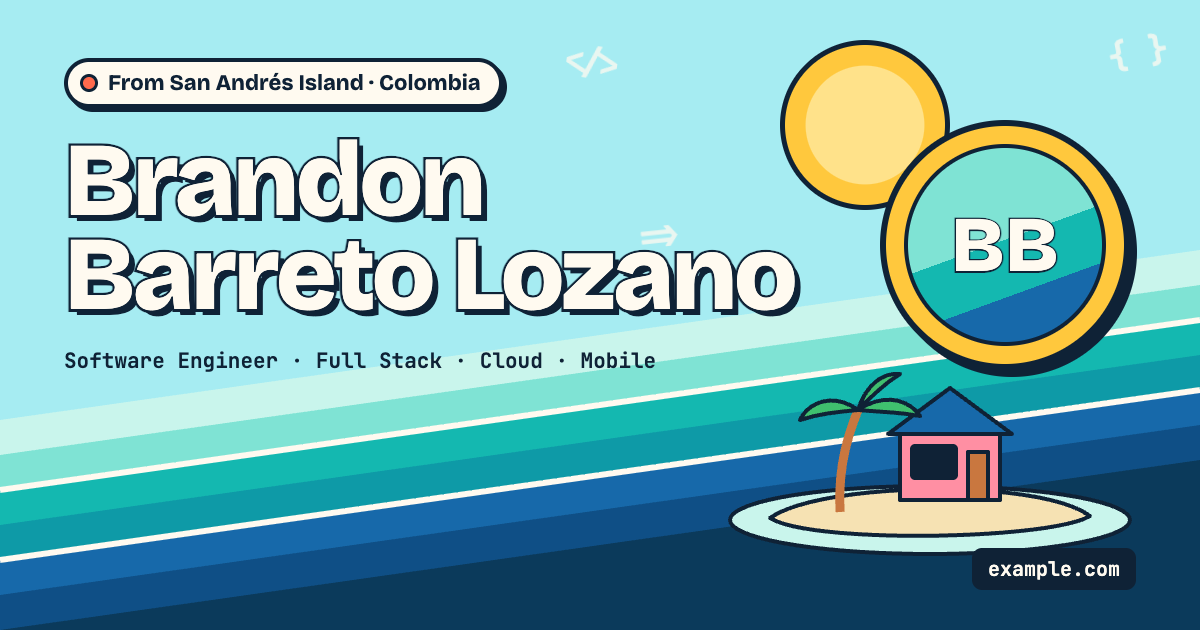
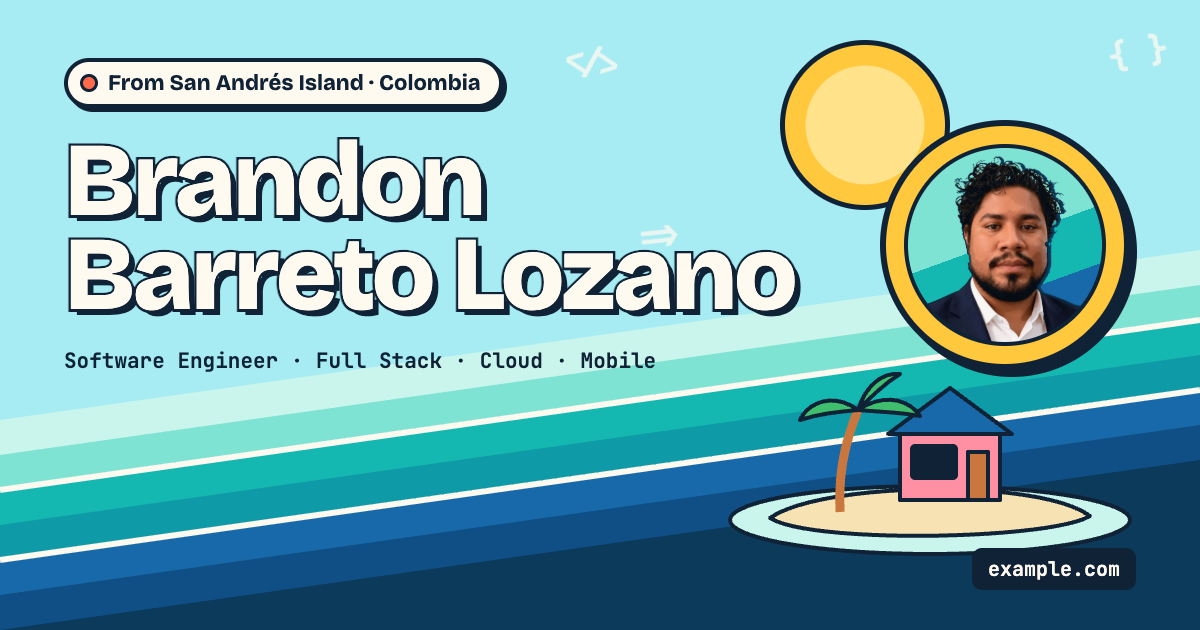
v1.0.1

Changed region(s): [[0.7708, 0.2413, 0.8942, 0.5429]]

diff --git a/scripts/og-template.html b/scripts/og-template.html
@@ -52,7 +52,7 @@
       }
       .porthole div {
         width: 100%; height: 100%; border-radius: 50%; border: 4px solid var(--ink); display: grid; place-items: center;
-        background: linear-gradient(160deg, #7fe3d4 0 48%, #14b8b0 48% 70%, #1769aa 70%);
+        background: url('../public/images/brandon.webp') center / cover, linear-gradient(160deg, #7fe3d4 0 48%, #14b8b0 48% 70%, #1769aa 70%);
         font-size: 78px; font-weight: 800; color: var(--cream); -webkit-text-stroke: 4px var(--ink); paint-order: stroke fill;
       }
       .url {
@@ -94,7 +94,7 @@
       <h1>Brandon<br />Barreto Lozano</h1>
       <p class="role">{{role}}</p>
     </div>
-    <div class="porthole"><div>BB</div></div>
+    <div class="porthole"><div></div></div>
     <span class="url">{{url}}</span>
   </body>
 </html>

diff --git a/src/data/profile.ts b/src/data/profile.ts
@@ -11,8 +11,8 @@ export const profile = {
   email: 'brandonbarretolozano@gmail.com',
   linkedin: 'https://www.linkedin.com/in/bbarreto5',
   github: 'https://github.com/bbarreto5',
-  // PLACEHOLDER: cuando esté la foto, guardarla en /public/images/ y poner la ruta, p. ej. '/images/brandon.webp'
-  photo: null as string | null,
+  // Foto estilizada con scripts/stylize-photo.py (recorte sin fondo, se compone sobre el mar del ojo de buey)
+  photo: '/images/brandon.webp' as string | null,
   origin: { place: 'San Andrés Isla, Colombia', coords: '12.58° N · 81.70° W' },
   base: { place: 'Barranquilla, Colombia', coords: '10.96° N · 74.78° W' },
   experienceSince: 2018,

diff --git a/scripts/stylize-photo.py b/scripts/stylize-photo.py
@@ -1,0 +1,143 @@
+"""Estiliza la foto de perfil al estilo del portafolio (cel-shading + contorno de tinta + sombra marina).
+
+Uso (requiere Pillow, numpy y scipy, fuera de las dependencias del sitio):
+    python3 -m venv .venv && .venv/bin/pip install pillow numpy scipy
+    .venv/bin/python scripts/stylize-photo.py foto.png public/images/brandon.webp 14 0.35
+
+Argumentos: entrada, salida, nº de tonos (K) y mezcla cel/foto (0 = foto, 1 = cel puro).
+Pensado para retratos sobre fondo gris liso; el recorte se hace por color desde los bordes.
+"""
+import sys
+import numpy as np
+from PIL import Image, ImageFilter
+from scipy import ndimage as ndi
+
+SRC = sys.argv[1]
+OUT = sys.argv[2]
+K = int(sys.argv[3]) if len(sys.argv) > 3 else 12
+MIX = float(sys.argv[4]) if len(sys.argv) > 4 else 1.0  # 1 = solo cel, 0 = solo foto
+
+img = Image.open(SRC).convert('RGB')
+W, H = img.size
+a = np.asarray(img).astype(np.float32) / 255.0
+
+# ---------- 1. Recorte del fondo gris (relleno desde los bordes superiores/laterales) ----------
+mx = a.max(axis=2)
+mn = a.min(axis=2)
+sat = np.where(mx > 0, (mx - mn) / np.maximum(mx, 1e-6), 0)
+cand = (sat < 0.10) & (mx > 0.40) & (mx < 0.74)
+lab, n = ndi.label(cand)
+lim = int(H * 0.80)
+seeds = set(np.unique(lab[0, :])) | set(np.unique(lab[:lim, 0])) | set(np.unique(lab[:lim, -1]))
+seeds.discard(0)
+bg = np.isin(lab, list(seeds))
+# entre los rizos el fondo se mezcla con el pelo: crecer el fondo con un criterio más laxo en la mitad superior
+relaxed = (sat < 0.16) & (mx > 0.34) & (mx < 0.76)
+top = np.zeros_like(relaxed)
+top[: int(H * 0.55)] = True
+bg = ndi.binary_propagation(bg, mask=bg | (relaxed & top))
+fg = ~bg
+# rellenar huecos de la figura, salvo los que son claramente fondo gris
+holes = ndi.binary_fill_holes(fg) & ~fg
+fg = fg | (holes & ~relaxed)
+fg = ndi.binary_opening(fg, iterations=1)
+lab2, n2 = ndi.label(fg)
+if n2 > 1:
+    sizes = ndi.sum(fg, lab2, range(1, n2 + 1))
+    fg = lab2 == (np.argmax(sizes) + 1)
+# halo: píxeles grisáceos pegados al borde (fondo mezclado con los rizos) se eliminan
+for _ in range(3):
+    band = fg & ~ndi.binary_erosion(fg, iterations=6)
+    halo = band & (sat < 0.20) & (mx > 0.30) & (mx < 0.80) & top
+    fg = fg & ~halo
+fg = ndi.binary_opening(fg, iterations=1)
+lab3, n3 = ndi.label(fg)
+if n3 > 1:
+    sizes = ndi.sum(fg, lab3, range(1, n3 + 1))
+    fg = lab3 == (np.argmax(sizes) + 1)
+soft = ndi.gaussian_filter(fg.astype(np.float32), 2.0)
+fg = soft > 0.5
+# huecos grises encerrados entre los rizos (solo zona del pelo, por encima de los ojos)
+hair_zone = np.zeros_like(fg)
+hair_zone[: int(H * 0.33)] = True
+gaps = hair_zone & (sat < 0.20) & (mx > 0.35) & (mx < 0.85)
+gaps = ndi.binary_dilation(gaps, iterations=1) & hair_zone
+fg = fg & ~gaps
+
+# ---------- 2. Suavizado tipo "pintura" ----------
+sm = img.filter(ImageFilter.MedianFilter(9)).filter(ImageFilter.MedianFilter(9)).filter(ImageFilter.MedianFilter(5))
+s = np.asarray(sm).astype(np.float32) / 255.0
+
+# ---------- 3. Cuantización de color (k-means) → zonas planas cel-shaded ----------
+px = s[fg]
+rng = np.random.default_rng(7)
+sample = px[rng.choice(len(px), size=min(60000, len(px)), replace=False)]
+cent = sample[rng.choice(len(sample), K, replace=False)]
+for _ in range(25):
+    d = ((sample[:, None, :] - cent[None, :, :]) ** 2).sum(-1)
+    idx = d.argmin(1)
+    for k in range(K):
+        m = idx == k
+        if m.any():
+            cent[k] = sample[m].mean(0)
+
+labels = np.zeros((H, W), dtype=np.int32)
+flat = s.reshape(-1, 3)
+best = np.full(flat.shape[0], np.inf)
+lab_flat = labels.reshape(-1)
+for k in range(K):
+    d = ((flat - cent[k]) ** 2).sum(-1)
+    m = d < best
+    best[m] = d[m]
+    lab_flat[m] = k
+labels = lab_flat.reshape(H, W)
+# limpiar motas pequeñas: filtro de moda aproximado con mediana sobre etiquetas ordenadas por luminancia
+lum = cent @ np.array([0.299, 0.587, 0.114])
+order = np.argsort(lum)
+rank = np.empty(K, dtype=np.int32)
+rank[order] = np.arange(K)
+ranked = rank[labels]
+ranked = ndi.median_filter(ranked, size=9)
+labels = order[ranked]
+
+# paleta: leve aumento de saturación; el tono más oscuro se lleva a la tinta del sitio
+pal = cent.copy()
+grey = pal.mean(1, keepdims=True)
+pal = np.clip(grey + (pal - grey) * 1.0, 0, 1)
+ink = np.array([0x0F, 0x22, 0x36]) / 255.0
+darkest = order[0]
+pal[darkest] = ink
+out = pal[labels]
+photo = np.asarray(img.filter(ImageFilter.MedianFilter(3))).astype(np.float32) / 255.0
+# leve realce: contraste y calidez caribeña
+photo = np.clip((photo - 0.5) * 1.06 + 0.5, 0, 1)
+photo = np.clip(photo * np.array([1.03, 1.0, 0.97]), 0, 1)
+out = out * MIX + photo * (1 - MIX)
+
+# ---------- 4. Líneas de tinta ----------
+# internas: bordes entre zonas con gran salto de luminancia
+L = (pal @ np.array([0.299, 0.587, 0.114]))[labels]
+gx = ndi.sobel(L, axis=1)
+gy = ndi.sobel(L, axis=0)
+edge = (np.hypot(gx, gy) > 0.55) & (MIX > 0.5)
+edge = ndi.binary_dilation(edge, iterations=1) & fg
+out[edge] = out[edge] * 0.25 + ink * 0.75
+# silueta: trazo grueso
+solid = ndi.binary_fill_holes(fg)
+outline = fg & ~ndi.binary_erosion(solid, iterations=7)
+out[outline] = ink
+
+shadow = ndi.shift(solid.astype(np.float32), (0, 16), order=0) > 0.5
+shadow &= ~solid
+deep = np.array([0x0B, 0x3A, 0x5B]) / 255.0
+out[shadow] = deep
+alpha = (fg | shadow).astype(np.float32)
+rgba = np.dstack([out, alpha])
+res = Image.fromarray((rgba * 255).astype(np.uint8))
+
+# ---------- 5. Encuadre para el ojo de buey ----------
+cx, cy, size = 640, 590, 1080
+box = (max(0, cx - size // 2), max(0, cy - size // 2), min(W, cx + size // 2), min(H, cy + size // 2))
+res = res.crop(box).resize((720, 720), Image.LANCZOS)
+res.save(OUT, quality=88, method=6) if OUT.endswith('.webp') else res.save(OUT)
+print('saved', OUT, res.size, 'bg ratio', round(1 - fg.mean(), 3))

diff --git a/README.md b/README.md
@@ -32,10 +32,13 @@ src/
 scripts/                 ← generación de la imagen Open Graph
 ```
 
+## Foto de perfil
+
+`public/images/brandon.webp` se genera desde la foto original con `scripts/stylize-photo.py` (recorte del fondo, tonos cel-shaded, contorno de tinta y sombra marina). Las instrucciones están en la cabecera del script. La ruta se configura en `profile.photo` (`src/data/profile.ts`); con `null` el ojo de buey vuelve a mostrar las iniciales.
+
 ## Pendientes (placeholders)
 
 | Qué | Dónde |
 | --- | --- |
 | Dominio definitivo | `SITE_URL` en `astro.config.mjs`, `url` en `scripts/generate-og.mjs`, `public/robots.txt` → luego `npm run og` |
-| Foto | Guardar en `public/images/` y poner la ruta en `profile.photo` (`src/data/profile.ts`). En `npm run dev` el ojo de buey muestra "foto pendiente" |
 | Enlaces de proyectos | Campo opcional `link` en cada expedición de `src/data/profile.ts` |
